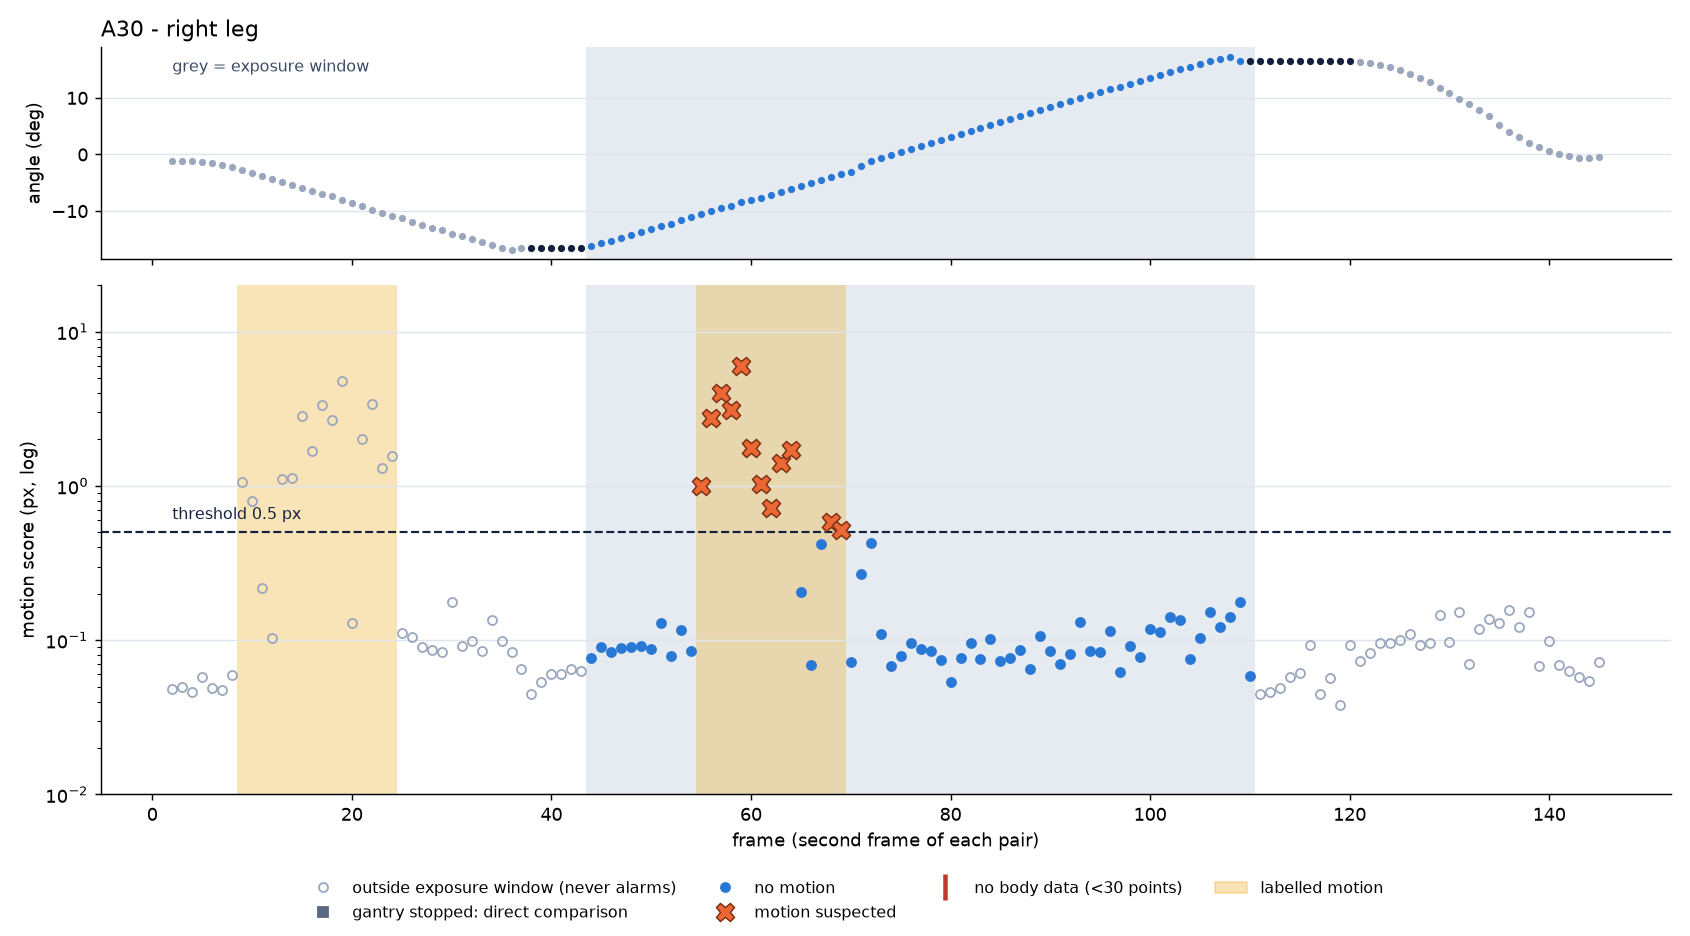
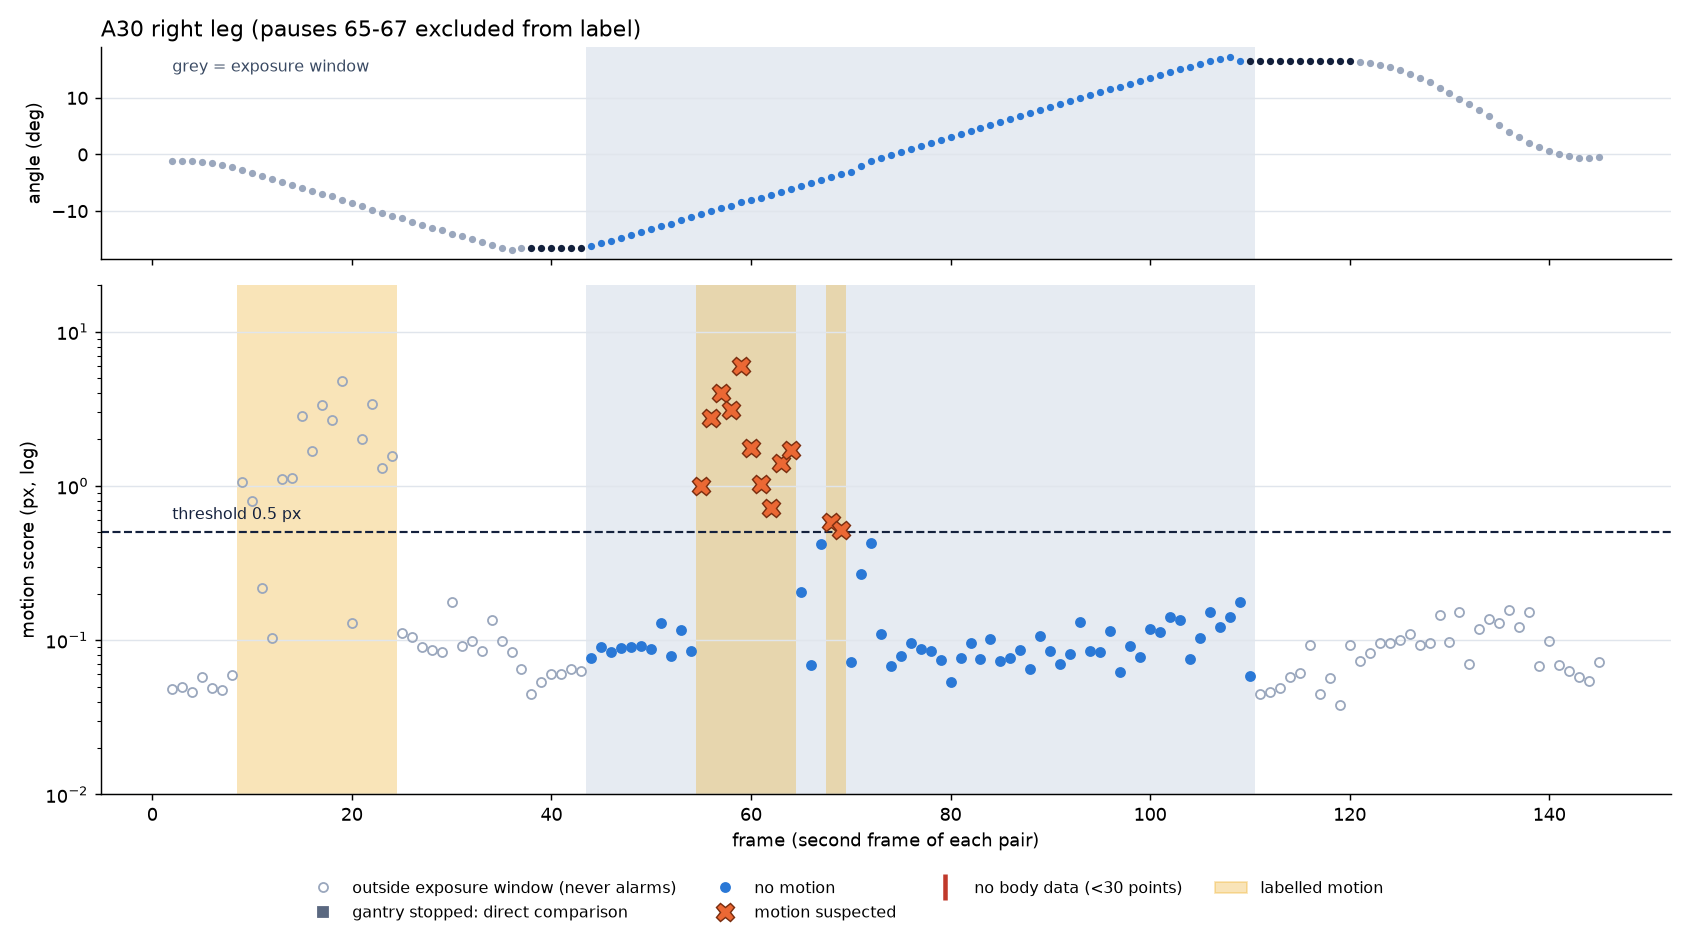
Confirmed pauses on A30/A44; small moving group missed by the 30-point cluster score
Claude-Session: https://claude.ai/code/session_01B33XwERzqgqNtM6tXR4W1H

Changed region(s): [[0.4615, 0.3098, 0.4923, 0.8675], [0.2462, 0.0, 0.3692, 0.062], [0.0923, 0.0, 0.2154, 0.062]]

diff --git a/motion_detection/results/blind_check_2026_10/README.md b/motion_detection/results/blind_check_2026_10/README.md
@@ -17,3 +17,18 @@ Result (A30, A44, A08, A12):
 - Limit: the cluster version has a noise floor of about 0.4 (A30) to 2 (A44) px, so a small along-line motion
   could still hide. This is not proof.
 - `arrows_*`: one picture per labelled pair.
+
+## Pauses confirmed by the labeller
+A30: 65-67. A44: 58, 62, 69, 73, 74, 77, 78, 81, 82 (67 is not a pause: slight blur at the knee).
+- 8 of the 11 missed pairs are pauses (A30 65-67; A44 58, 62, 69, 81, 82). The detector scored all nine A44 pauses low (cl30 0.13-0.35) and flagged none.
+- Moving pairs detected: A30 12 of 12, A44 17 of 20. `presentation_figs/A30.png` and `A44.png` now leave the pauses out of the yellow bands.
+- The remaining A44 misses 67, 70, 71 are real motion of a small group (about 10-15 points, on the trouser fold), which the 30-point cluster score smooths away:
+
+| pair | cl30 | cl8 (8 nearest) | n_body |
+|---|---|---|---|
+| 67 | 0.19 | 6.48 | 118 |
+| 70 | 0.33 | 2.13 | 129 |
+| 71 | 0.20 | 8.98 | 141 |
+
+  cl8 on the unlabelled in-window pairs: median 0.22, p95 0.57, max 1.46. At the confirmed pauses cl8 is 0.19-0.63.
+  `A44_pair66_vs_67_70_71.jpg` shows the arrows. Nothing was changed (cluster size, thresholds). Whether the group is the knee or the cloth is not known; a smaller cluster size must be tested on all scans including the negative controls before any change.
